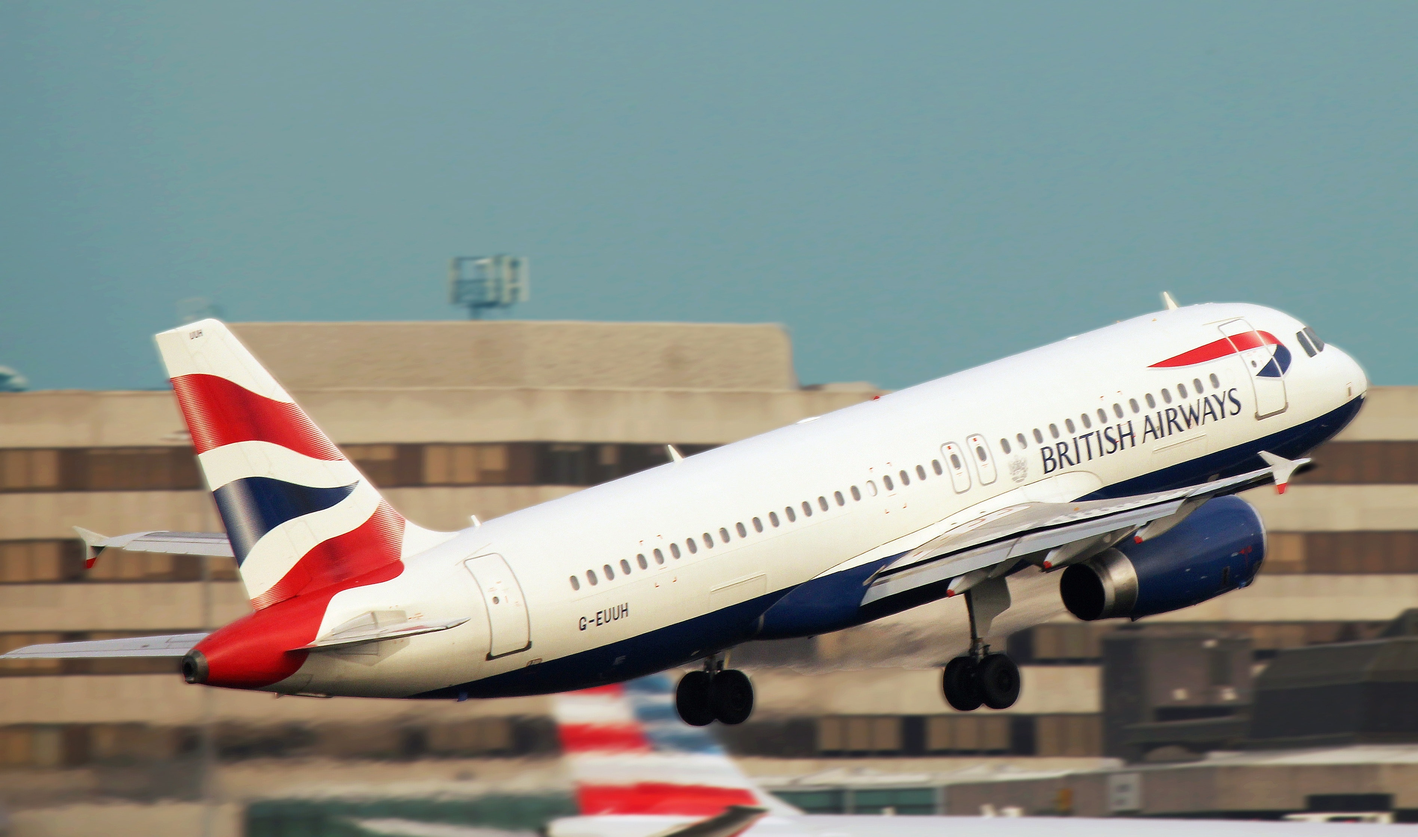
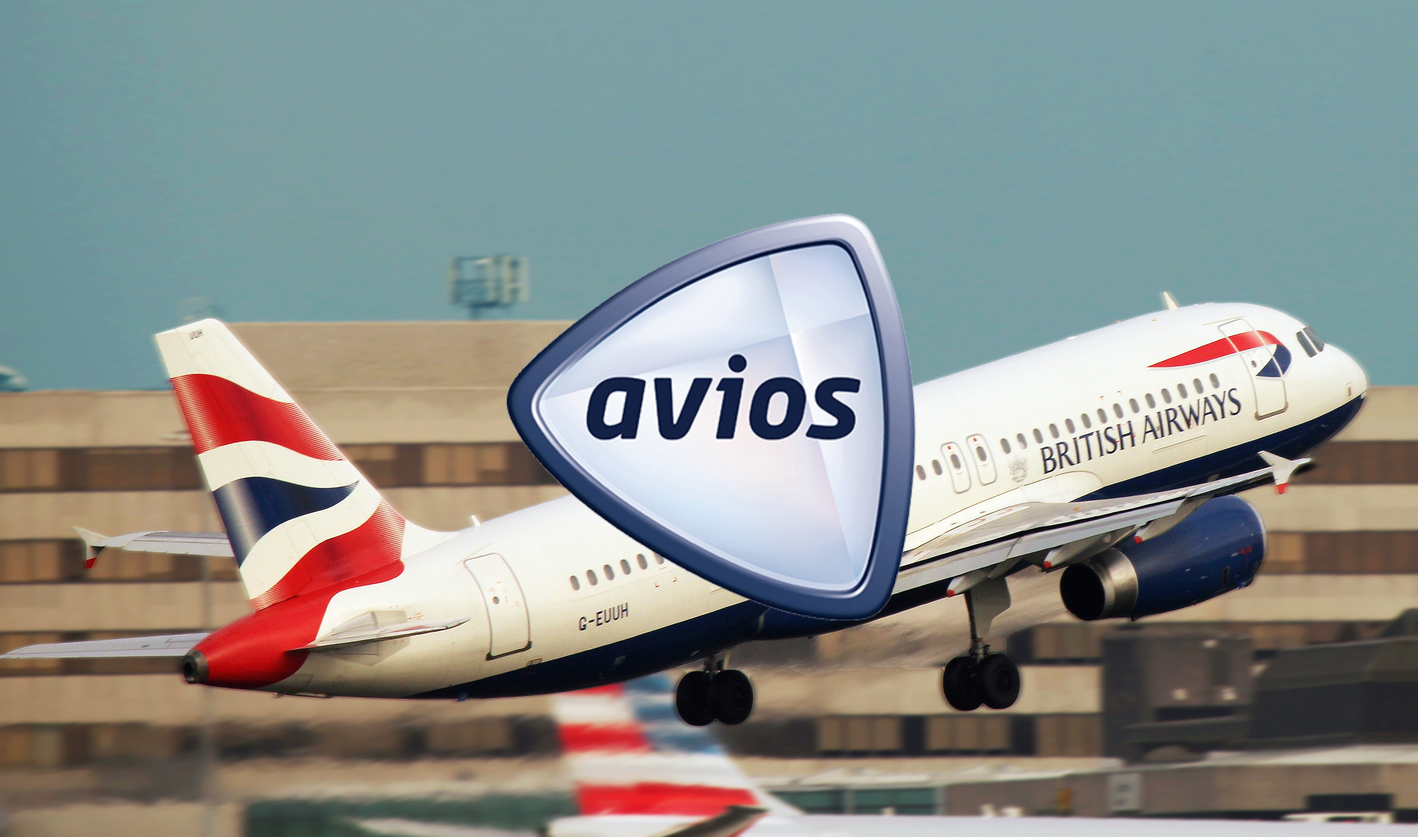
avios

Changed region(s): [[0.3423, 0.25, 0.6535, 0.75]]

diff --git a/content/blog/getting-the-most-out-of-avios.md b/content/blog/getting-the-most-out-of-avios.md
@@ -43,16 +43,16 @@ However, companion vouchers are not as valuable for short haul flights, flying t
 **What's the best way to spend Avios?** Valuing Avios is fairly complicated, and [thepointsguy.co.uk](https://thepointsguy.co.uk/guide/uk-monthly-valuations/) has already done the heavy lifting so we will use their valuation here (as of publication Avios are worth 1.1p each). Using this valuation we can look at redemptions and decide whether Avios is the right choice.
 
 A very bad use of Avios is their wine club, for example, the below offer for 6 bottles of Malbec for 13,200 Avios seems fairly reasonable, but when converting Avios to pounds at the rate above, the true cost is £120 - or £20 a bottle. Tesco finest Argentinian Malbec is only £8 a bottle which would actually value the Avios at 0.36 per £1 spent, truly terrible.
-![Avios](images/avios-malbec.jpg) ![Tesco](images/tesco-malbec.jpg)
+![Avios](/images/avios-malbec.jpg) ![Tesco](/images/tesco-malbec.jpg)
 
 Reward Flight Savers are probably the best use of Avios though, with fees and taxes fixed you only really need to worry about the Avios being spent. 
 
 This weekend trip to New York in November, economy travel with refundable ticket and checked in luggage allowannce is 50,000 Avios plus £100, or £611.12 for cash. Using the value of Avios above, the total for the redemption flight is £554.55 (£454.44 Avios plus £100 fee's) which would save £56.57. This makes Avios actually worth 1.22 which is above the 1.1 benchmark above making this a good value flight. Throw in a companion voucher, and 2 people are able to fly to NYC from LHR for the equivalent of £650, which is a bargain.
 
-![Avios is a good deal](images/avios-gooddeal.jpg)
+![Avios is a good deal](/images/avios-gooddeal.jpg)
 
 It's not always a bargain though, the below flight in October between London Heathrow and Barcelona would cost 25,500 Avios plus £1 - which as valued above would be £233 worth of points. The exact same flight for cash, is only £156. This could be worthwhile with a companion voucher, but it's not as much of a saving as above.
-![Cash is cheaper](images/avios-baddeal.jpg)
+![Cash is cheaper](/images/avios-baddeal.jpg)
 
 **Any tricks to saving even more Avios?** Actually, possibly. If we look at redeeming with a partner rather than British Airways direct, things become a little more interesting.
 
